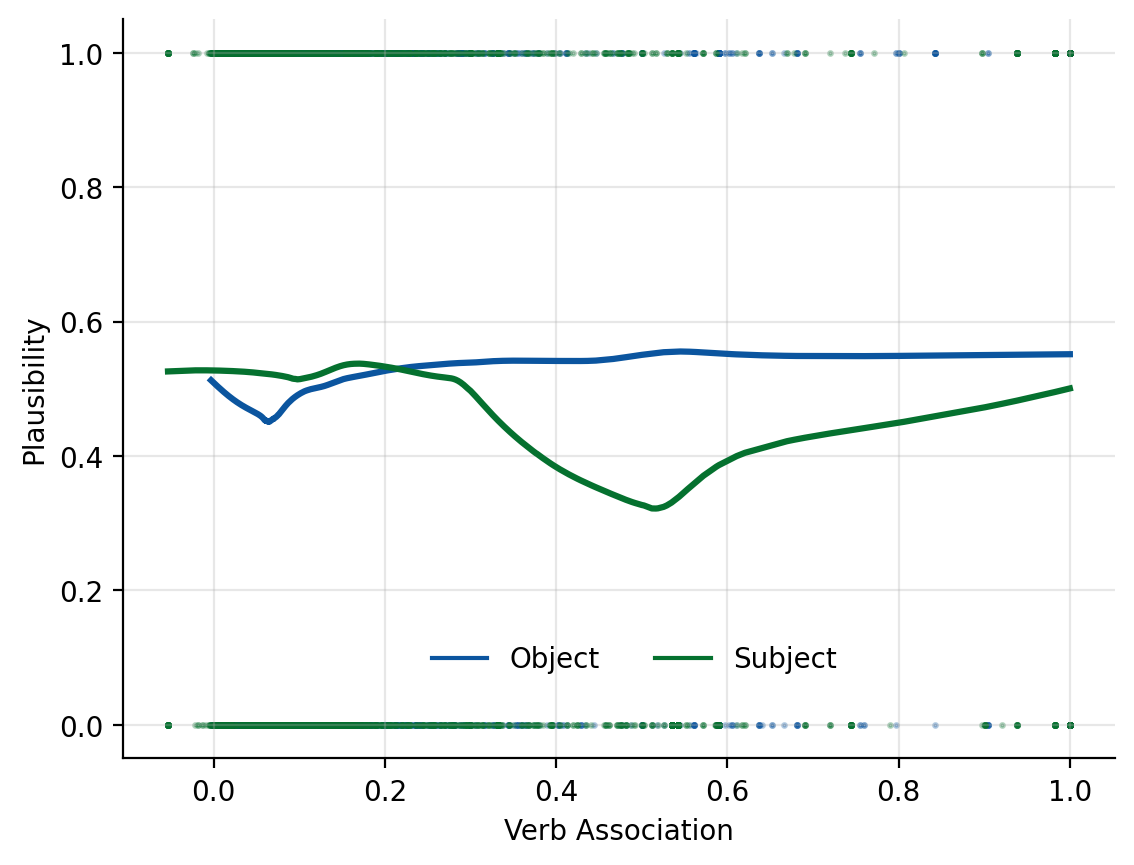
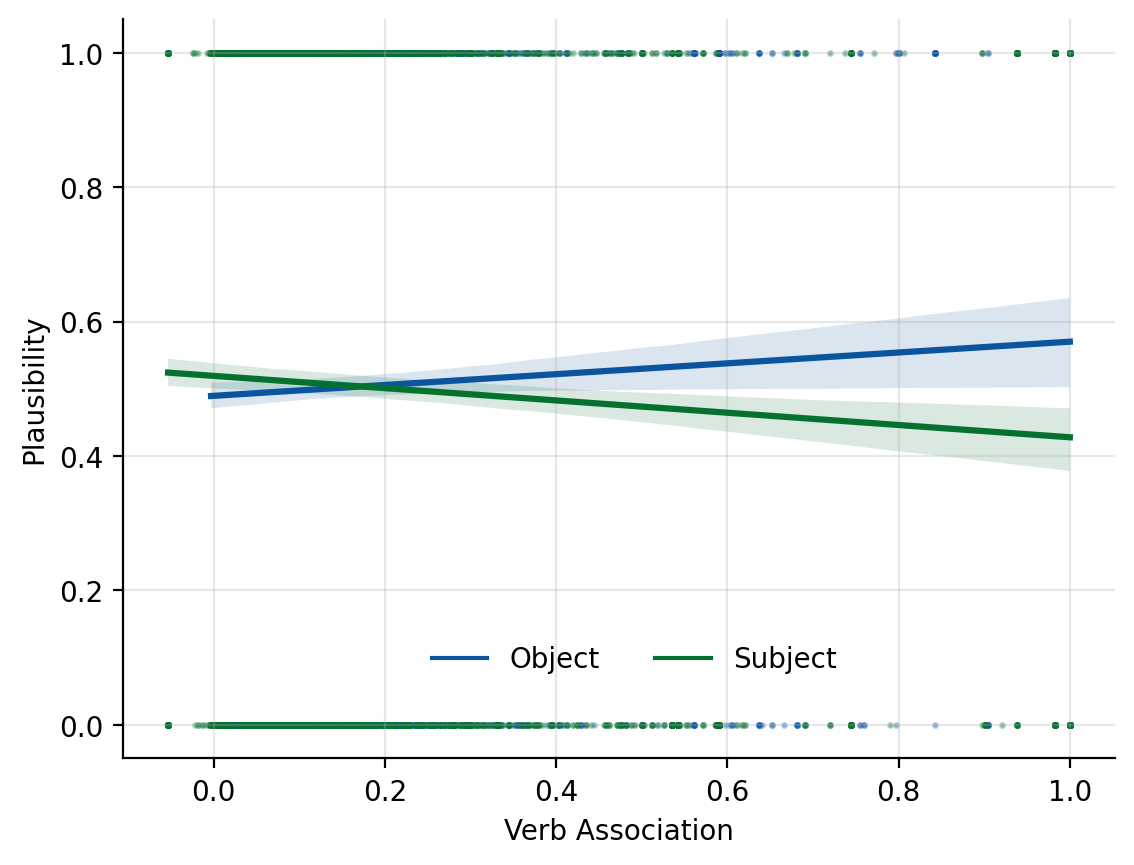
Add both lowess and linear trends

Changed region(s): [[0.1235, 0.3434, 0.9568, 0.5618], [0.5247, 0.5618, 0.6173, 0.5931], [0.6173, 0.5306, 0.6481, 0.5618]]

diff --git a/scripts/run_selectional_association_plausibility_correlation.py b/scripts/run_selectional_association_plausibility_correlation.py
@@ -47,8 +47,8 @@ def main() -> None:
     plausibility_df = _read_subdirectory_dataset_csvs(args.plausibility_datasets_dir)
     plausibility_df = plausibility_df[plausibility_df.split == 'train']
 
-    get_merged_plausibility_sa_data(plausibility_df, sa_datasets_dir)
-    # plot_correlation(sa_df, args.artifacts_dir)
+    sa_df = get_merged_plausibility_sa_data(plausibility_df, sa_datasets_dir)
+    plot_correlation(sa_df, args.artifacts_dir)
 
     joint_sa_df = get_joint_merged_plausibility_sa_data(
         plausibility_df, sa_datasets_dir
@@ -108,6 +108,7 @@ def get_joint_merged_plausibility_sa_data(
 
 
 def plot_joint_correlation(df: pd.DataFrame, artifacts_dir_str: str) -> pd.DataFrame:
+    # TODO: Lot's of stuff hardcoded to make the heatmap look interpretable
     artifacts_dir = pathlib.Path(artifacts_dir_str)
     artifacts_dir.mkdir(parents=True, exist_ok=True)
 
@@ -153,41 +154,44 @@ def plot_correlation(df: pd.DataFrame, artifacts_dir_str: str) -> pd.DataFrame:
     artifacts_dir = pathlib.Path(artifacts_dir_str)
     artifacts_dir.mkdir(parents=True, exist_ok=True)
 
-    for entity, df_g in df.groupby('entity_type'):
-        color_map = 'Greens_r' if entity == 'subject' else 'Blues_r'
-        c = sns.color_palette(color_map, 13)[1]
-        a = sns.regplot(
-            data=df_g,
-            x='association',
-            y='plausibility',
-            label=entity,
-            scatter_kws={'s': 2, 'alpha': 0.3},
-            color=c,
-            line_kws=dict(color=c),
-            lowess=True,
-        )
-        a.grid(alpha=0.3)
-        a.set_ylabel('Plausibility')
-        a.set_xlabel('Verb Association')
-        a.spines[['right', 'top']].set_visible(False)
-        a.plot([0], [0], c=c, label=entity[0].upper() + entity[1:])
-        a.legend()
+    for use_lowess in [True, False]:
+        for entity, df_g in df.groupby('entity_type'):
+            color_map = 'Greens_r' if entity == 'subject' else 'Blues_r'
+            c = sns.color_palette(color_map, 13)[1]
+            a = sns.regplot(
+                data=df_g,
+                x='association',
+                y='plausibility',
+                label=entity,
+                scatter_kws={'s': 2, 'alpha': 0.3},
+                color=c,
+                line_kws=dict(color=c),
+                lowess=use_lowess,
+            )
+            a.grid(alpha=0.3)
+            a.set_ylabel('Plausibility')
+            a.set_xlabel('Verb Association')
+            a.spines[['right', 'top']].set_visible(False)
+            a.plot([0], [0], c=c, label=entity[0].upper() + entity[1:])
+            a.legend()
 
-    ax = plt.gca()
-    h, l = ax.get_legend_handles_labels()
-    ax.legend(
-        handles=[h[1], h[3]],
-        labels=[l[1], l[3]],
-        frameon=False,
-        loc=(0.3, 0.1),
-        ncol=2,
-    )
-    plt.savefig(
-        artifacts_dir / 'selectional_association_correlation.png',
-        dpi=200,
-        bbox_inches='tight',
-    )
-    plt.close()
+        ax = plt.gca()
+        h, l = ax.get_legend_handles_labels()
+        ax.legend(
+            handles=[h[1], h[3]],
+            labels=[l[1], l[3]],
+            frameon=False,
+            loc=(0.3, 0.1),
+            ncol=2,
+        )
+
+        if use_lowess:
+            plot_file = 'selectional_association_correlation_lowess.png'
+        else:
+            plot_file = 'selectional_association_correlation.png'
+
+        plt.savefig(artifacts_dir / plot_file, dpi=200, bbox_inches='tight')
+        plt.close()
 
 
 def _read_subdirectory_dataset_csvs(datasets_dir_str: str) -> pd.DataFrame:
